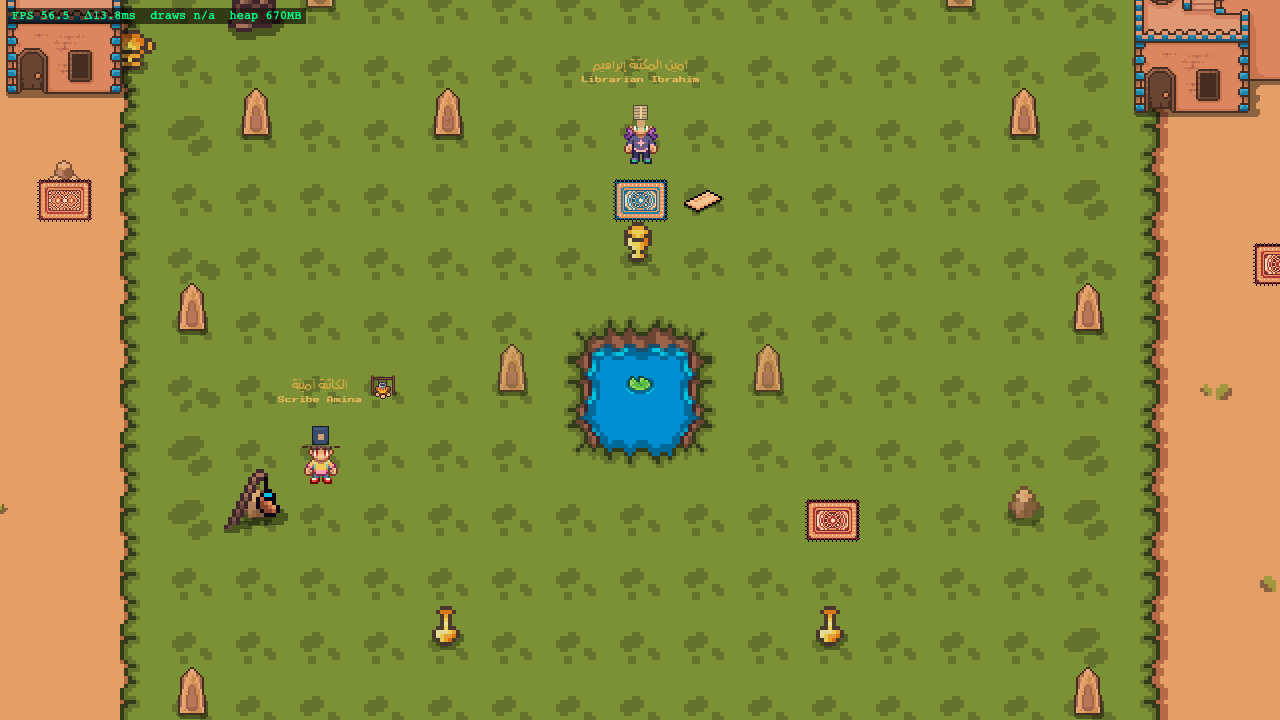
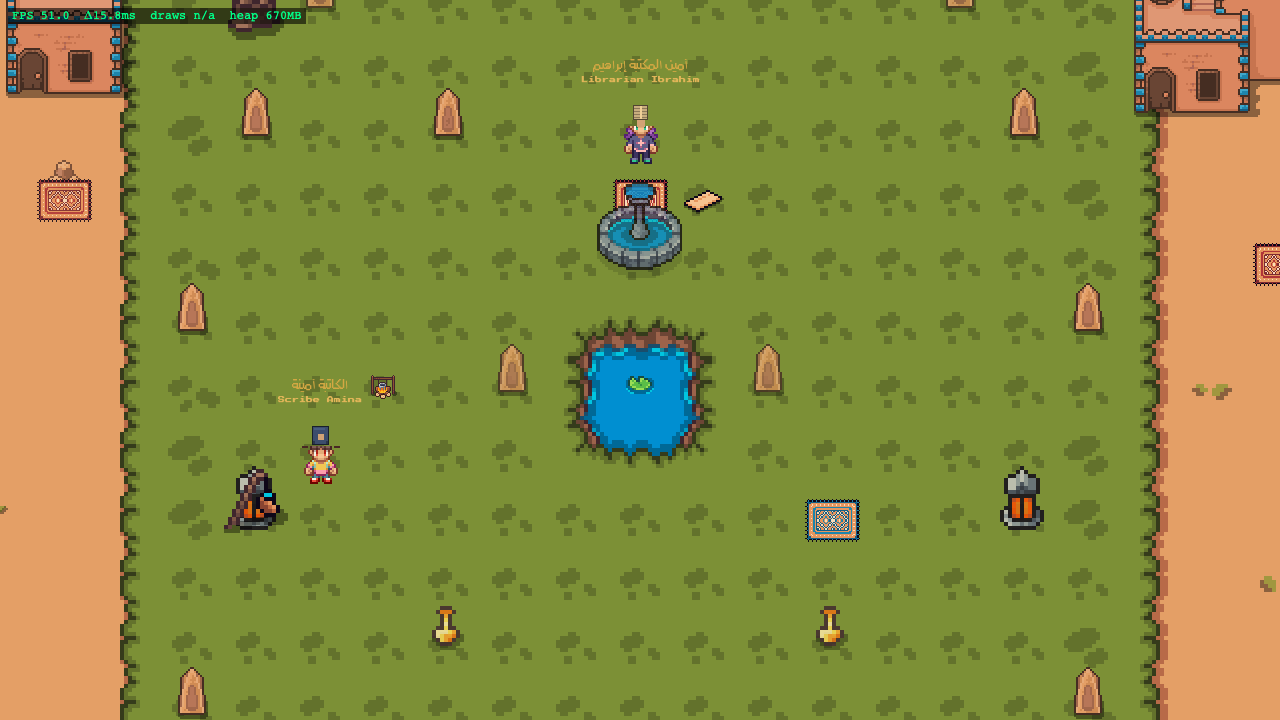
fix(world): correct chest/stall sprite mappings in InteractableManager
Chests rendered as teal rock piles in every zone; stall sprites remapped
to their intended Kenmi assets. All-zone world-shot captures regenerated
to reflect the corrected sprites.

diff --git a/src/game/systems/InteractableManager.js b/src/game/systems/InteractableManager.js
@@ -18,13 +18,27 @@ const LABEL_RANGE = 64 * 3.5;
 // miniature strip of every item at once — same fix as GATHER_SPRITE_REMAP in
 // GatheringSpotManager.js (setCrop + normalized scale + crop-centred origin).
 const WORLD_OBJECT_SPRITES = {
-  fountain: { key: 'kenmi-desert-props-golden-pots', region: { x: 0, y: 0, w: 16, h: 16 } },
+  // World-rebuild screenshot review (oasis_village, 2026-07-03): fountain/lantern/
+  // barrel/crate previously borrowed rock and golden-pot crops, so the plaza axis
+  // terminator read as a tiny pot and every "entrance framing lantern pair"
+  // (LAW-28/36) read as sand mounds. Remapped to the real Kenmi assets the design
+  // manifests (all keys verified in kenmiCatalog.js). Same crop mechanism as before.
+  // fountain.png (32x80) stacks two sprites: plain basin (0,0,32,32) and spouting
+  // fountain (0,32,32,48) — use the spouting one at ~2 tiles.
+  fountain: { key: 'kenmi-base-outdoor-decoration-fountain', region: { x: 0, y: 32, w: 32, h: 48, tiles: 2 } },
   statue: { key: 'kenmi-desert-temple-desert-obelisk-small-1', region: { x: 0, y: 0, w: 32, h: 32 } },
   painting: { key: 'kenmi-desert-temple-desert-obelisk-small-2', region: { x: 0, y: 0, w: 32, h: 32 } },
-  lantern: { key: 'kenmi-desert-props-desert-rocks', region: { x: 64, y: 0, w: 16, h: 16 } },
-  stall: { key: 'kenmi-desert-houses-pergola', region: { x: 0, y: 0, w: 32, h: 64 } },
-  barrel: { key: 'kenmi-desert-props-desert-rocks', region: { x: 32, y: 0, w: 32, h: 32 } },
-  crate: { key: 'kenmi-desert-props-golden-pots', region: { x: 16, y: 0, w: 16, h: 16 } },
+  lantern: { key: 'kenmi-base-outdoor-decoration-lantern', region: { x: 0, y: 0, w: 16, h: 16 } },
+  // World-rebuild screenshot review (oasis_village, 2026-07-03): the pergola crop
+  // rendered a 32x64 pole sliver, so the LAW-37 stall unit read as a tiny loom.
+  // Remapped to the design-manifested market-stalls sheet (192x48 = 4x 48px awning
+  // stalls; the blue one echoes the merchant house's blue trim) at ~2 tiles wide,
+  // per WORLD-MISSING-ASSETS #3 (wooden stall accepted as-is).
+  stall: { key: 'kenmi-base-buildings-buildings-unique-buildings-stalls-market-stalls', region: { x: 96, y: 0, w: 48, h: 48, tiles: 2 } },
+  // First barrel crop from MapLoader's PROP_CROP_REGIONS list for this sheet.
+  barrel: { key: 'kenmi-base-outdoor-decoration-barrels', region: { x: 0, y: 0, w: 16, h: 32 } },
+  // Spritesheet base frame 0 = intact crate (the crop keeps it to one frame).
+  crate: { key: 'kenmi-base-outdoor-decoration-outdoor-decor-animations-break-animations-crate-anim', region: { x: 0, y: 0, w: 16, h: 16 } },
   pot: { key: 'kenmi-desert-props-golden-pots', region: { x: 32, y: 0, w: 16, h: 16 } },
   inscription: { key: 'kenmi-desert-temple-desert-obelisk-small-2', region: { x: 0, y: 0, w: 32, h: 32 } },
 };
@@ -33,7 +47,11 @@ const WORLD_OBJECT_SPRITES = {
 const LEGACY_INTERACTABLE_SPRITES = {
   sign: { key: 'kenmi-desert-temple-desert-obelisk-small-2', region: { x: 0, y: 0, w: 32, h: 32 } },
   bookshelf: { key: 'kenmi-desert-temple-desert-obelisk-small-1', region: { x: 0, y: 0, w: 32, h: 32 } },
-  chest: { key: 'kenmi-desert-props-desert-rocks', region: { x: 112, y: 0, w: 32, h: 32 } },
+  // World-rebuild screenshot review (oasis_village, 2026-07-03): the old mapping
+  // borrowed the desert-rocks TEAL water-ring pile (region 112,0), so every chest
+  // read as a rock pile sitting in a puddle on dry land. Remapped to the real
+  // Kenmi wooden chest (chest-anim.png, 6x 16px frames; frame 0 = closed).
+  chest: { key: 'kenmi-base-buildings-house-decor-chest-anim', region: { x: 0, y: 0, w: 16, h: 16 } },
   // Doors mark a building's ENTRANCE, so the marker is a doormat rug at the
   // threshold — not a house sprite (the 80x80 desert-house crop drew a whole
   // miniature duplicate house floating next to the real building).

diff --git a/src/game/systems/__tests__/InteractableManager.test.js b/src/game/systems/__tests__/InteractableManager.test.js
@@ -94,7 +94,9 @@ describe('InteractableManager', () => {
       // Verify sprites created with correct keys (Kenmi)
       expect(scene.add.image).toHaveBeenCalledWith(352, 352, 'kenmi-desert-temple-desert-obelisk-small-2');
       expect(scene.add.image).toHaveBeenCalledWith(480, 480, 'kenmi-desert-temple-desert-obelisk-small-1');
-      expect(scene.add.image).toHaveBeenCalledWith(672, 672, 'kenmi-desert-props-desert-rocks');
+      // Chests render as the real Kenmi wooden chest (world-rebuild screenshot
+      // review 2026-07-03 — the old desert-rocks mapping was a teal water-ring pile).
+      expect(scene.add.image).toHaveBeenCalledWith(672, 672, 'kenmi-base-buildings-house-decor-chest-anim');
     });
 
     it('should tint already-opened chests from Redux state', async () => {
